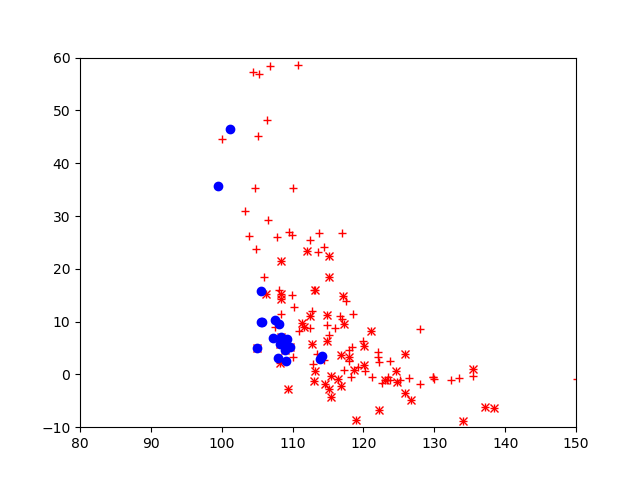
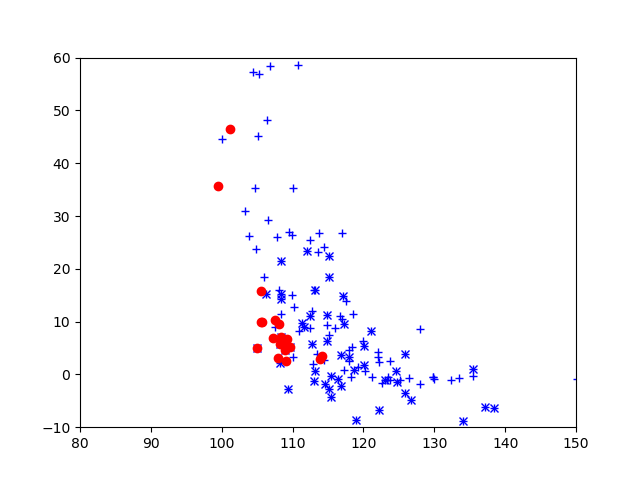
20190416

diff --git a/SortBySumOfPrinceAndPremium.py b/SortBySumOfPrinceAndPremium.py
@@ -100,9 +100,9 @@ print 'buy:'
 print buy_df
 
 special_rdf = rdf.loc[~rdf.convert_cd.str.startswith('1'), ['price', 'premium_rt']]
-plt.plot(rdf['price'], rdf['premium_rt'], 'r+')
-plt.plot(special_rdf['price'], special_rdf['premium_rt'], 'rx')
-plt.plot(exist_df['price'], exist_df['premium_rt'], 'bo')
+plt.plot(rdf['price'], rdf['premium_rt'], 'b+')
+plt.plot(special_rdf['price'], special_rdf['premium_rt'], 'bx')
+plt.plot(exist_df['price'], exist_df['premium_rt'], 'ro')
 plt.axis([80, 150, -10, 60])
 plt.savefig('pic/'+ TODAY + '.png')
 

diff --git a/Print.py b/Print.py
@@ -4,7 +4,7 @@ import time
 from datetime import datetime
 
 p_rdf = pd.read_csv('jsl.rlst.csv', encoding='utf-8')
-p_exist_df = pd.read_csv('jsl.existing.18.csv', encoding='utf-8')
+p_exist_df = pd.read_csv('jsl.defence.18.csv', encoding='utf-8')
 plt.plot(p_rdf['price'], p_rdf['premium_rt'], 'bo')
 plt.plot(p_exist_df['price'], p_exist_df['premium_rt'], 'ro')
 plt.axis([80, 150, -10, 60])
